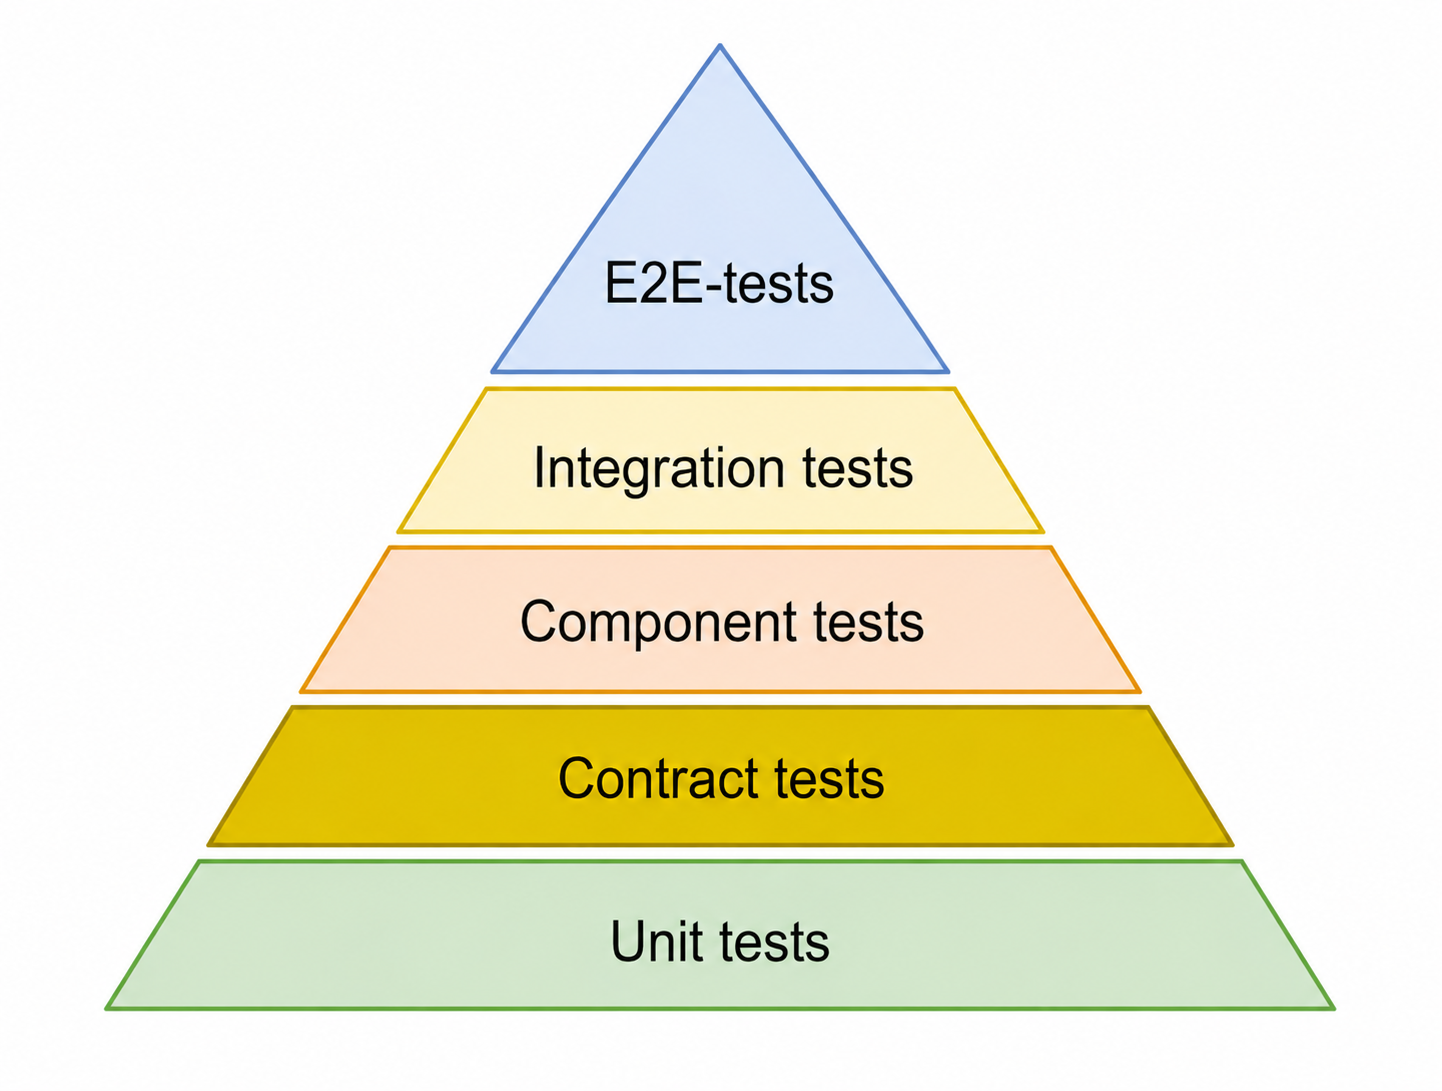
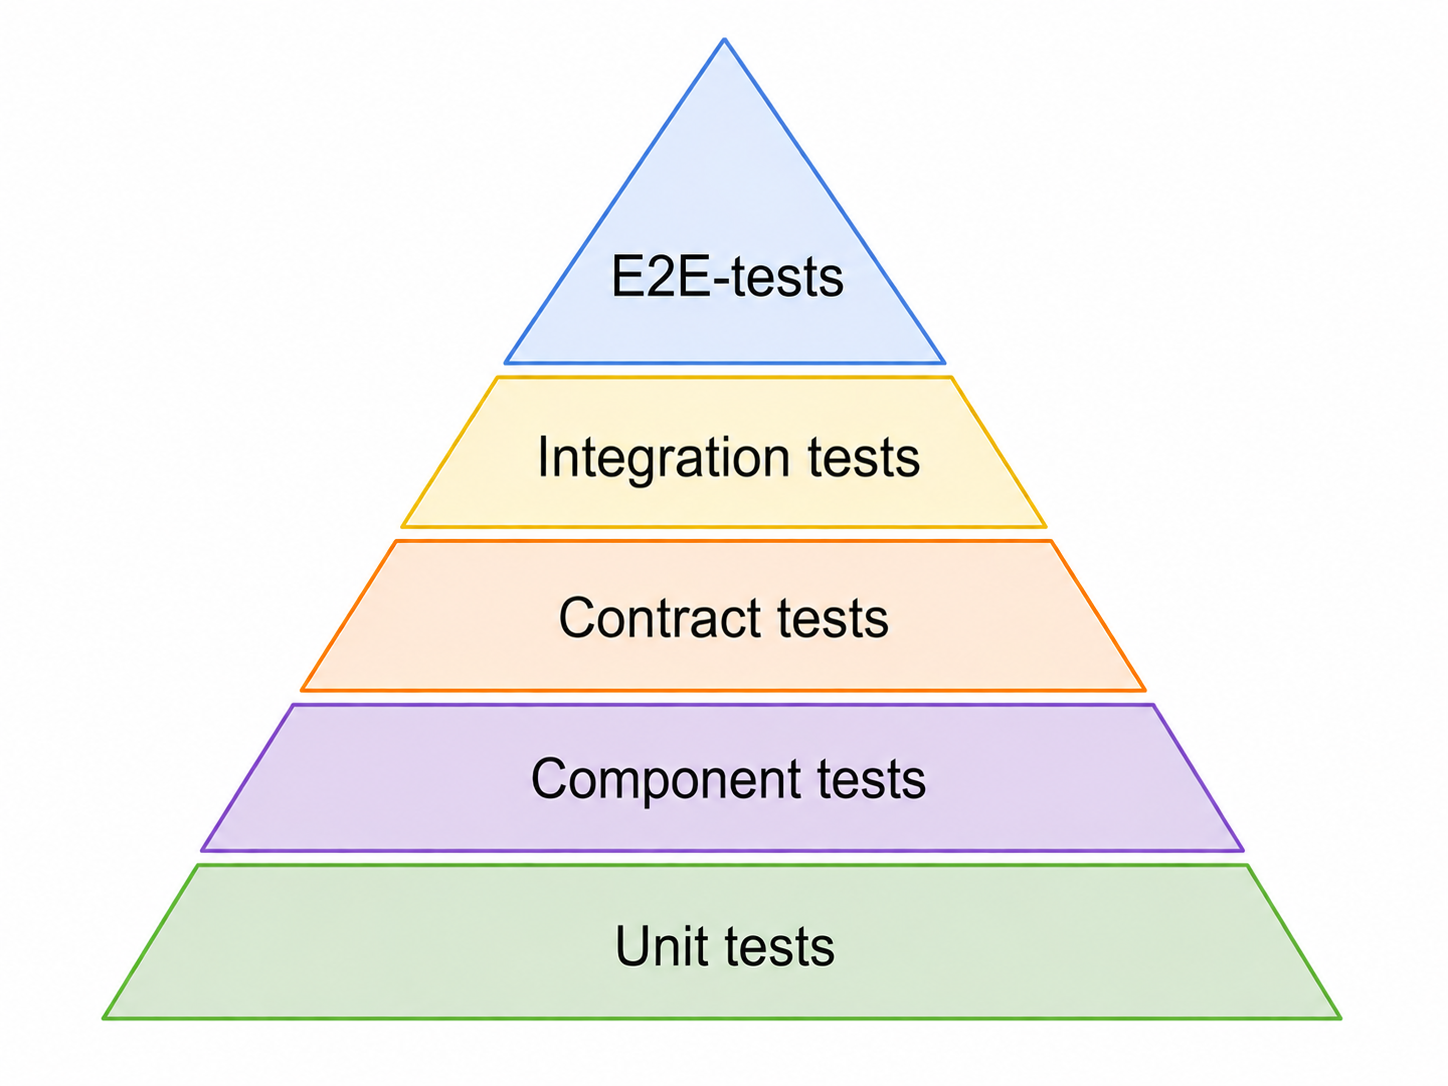
new pyramid

diff --git a/pages/setup.html b/pages/setup.html
@@ -44,17 +44,17 @@
                     <details>
                         <summary>Example for .NET</summary>
                         <pre><code>
-                        #Find in Nuget package manager
-                        <PackageReference Include="PactNet" Version="5.0.1" />
-                        <PackageReference Include="PactNet.Output.Xunit" Version="1.0.0" />
+                            #Find in Nuget package manager
+                            PackageReference Include="PactNet" Version="5.0.1"
+                            PackageReference Include="PactNet.Output.Xunit" Version="1.0.0"
                     </code></pre>
                     </details>
                     <details>
                         <summary>Example for JavaScript</summary>
                         <pre><code>
-                    #Install via npm
-                    npm install @pact-foundation/pact
-                    npm install @pact-foundation/pact-cli@^18.0.0
+                            #Install via npm
+                            npm install @pact-foundation/pact
+                            npm install @pact-foundation/pact-cli@^18.0.0
                         </code></pre>
                     </details>
                 </li>
@@ -63,6 +63,7 @@
                 <li>Write the first consumer test.</li>
                 <li>Run the test and generate a contract file.</li>
                 <li>Publish the contract to the Pact Broker.</li>
+                <li>Set up provider verification against the published contract.</li>
             </ol>
 
             <h2>Output</h2>
